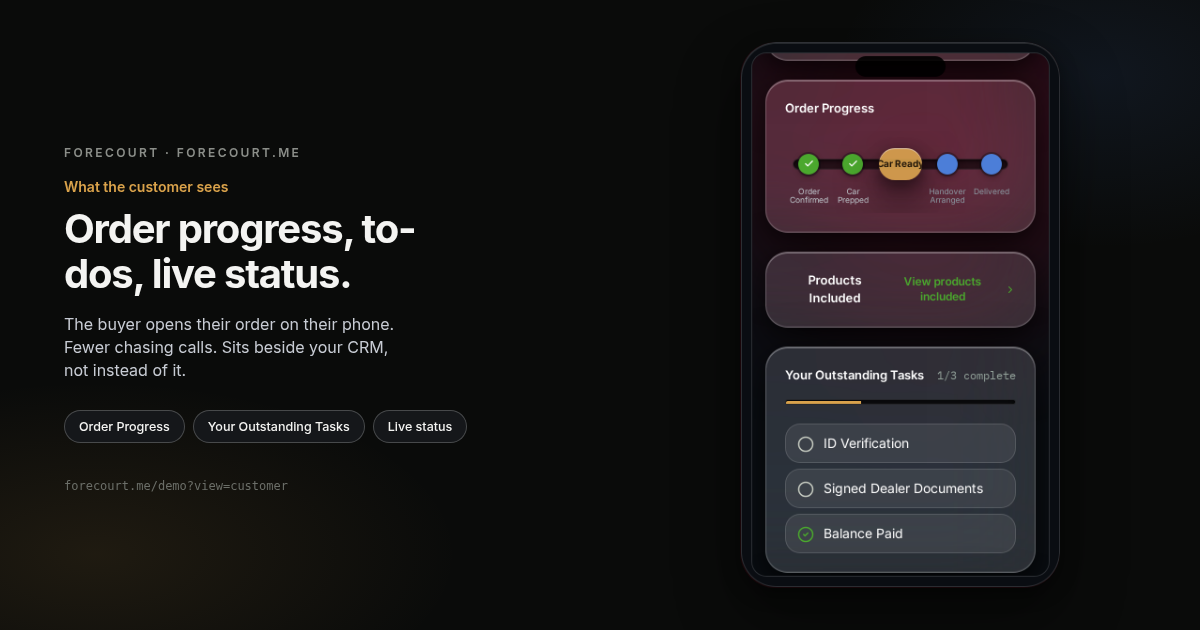
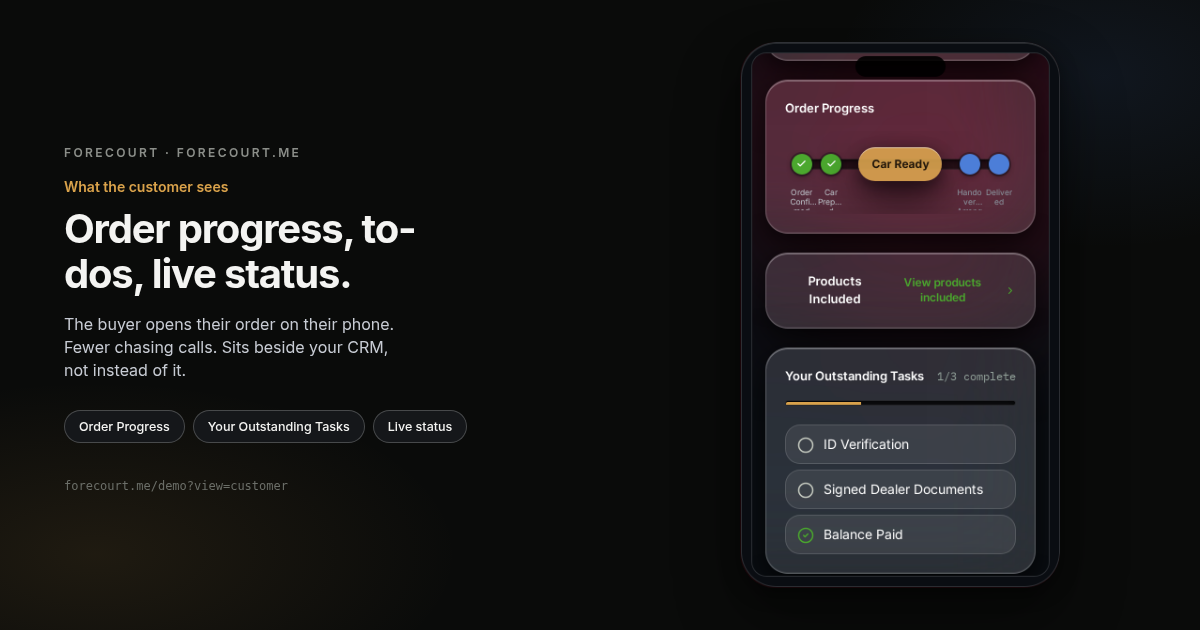
Fix Car Ready now-pill text crush on customer glass.
Portal sizes the current rail column to the amber pill. We had max-width
on is-current plus width:100% rail-mark and overflow:hidden on now-pill,
so Car Ready was forced into a too-narrow capsule. Size the pill to its
text (max-content), give the current node min-width, drop the clip, and
re-export the 1200x630 social PNG.

diff --git a/src/styles.css b/src/styles.css
@@ -534,10 +534,11 @@
 }
 .progress-node.is-current,
 .locator-node.is-current {
-  flex: 1.35 1 0;
-  min-width: 0;
-  max-width: 38%;
-  padding: 0 2px;
+  /* Portal: current column sizes to the now-pill, not the other way round. */
+  flex: 0 0 auto;
+  min-width: 7.5rem;
+  max-width: none;
+  padding: 0 4px;
 }
 .stage-disc {
   width: 26px;
@@ -558,40 +559,44 @@
 }
 .now-pill {
   height: 42px;
-  max-width: 100%;
-  padding: 0 10px;
+  width: max-content;
+  max-width: none;
+  padding: 0 14px;
   border-radius: 999px;
   background: color-mix(in srgb, #D9A24B 88%, rgba(255, 255, 255, 0.18));
   color: #20160A;
-  font-size: 11px;
+  font-size: 12px;
   font-weight: 700;
   line-height: 1.15;
+  letter-spacing: 0;
   white-space: nowrap;
-  overflow: hidden;
-  text-overflow: ellipsis;
+  overflow: visible;
   display: inline-flex;
   align-items: center;
   justify-content: center;
-  gap: 5px;
+  gap: 6px;
+  flex-shrink: 0;
+  transform: none;
   box-shadow: var(--shell-float-shadow);
   z-index: 2;
   animation: pill-pulse 2.8s ease-in-out infinite;
 }
 .arrived-pill {
   height: 34px;
-  max-width: 100%;
-  padding: 0 10px;
+  width: max-content;
+  max-width: none;
+  padding: 0 12px;
   border-radius: 999px;
   background: color-mix(in srgb, #4BA82E 72%, #0b0f14);
   color: #f3fff0;
   font-size: 10.5px;
   font-weight: 700;
   white-space: nowrap;
-  overflow: hidden;
-  text-overflow: ellipsis;
+  overflow: visible;
   display: inline-flex;
   align-items: center;
   gap: 5px;
+  flex-shrink: 0;
 }
 .rail-mark {
   height: 42px;
@@ -599,7 +604,9 @@
   align-items: center;
   justify-content: center;
   flex-shrink: 0;
-  width: 100%;
+  /* Width follows the disc/pill; width:100% was crushing now-pill text. */
+  width: auto;
+  min-width: 0;
 }
 .rail-label {
   margin-top: 4px;
@@ -798,20 +805,32 @@
 }
 .customer-phone-scroll .rail-scroll {
   overflow-x: hidden !important; /* phone-only: no x-scroll; showcase ≤5 stages must fit */
+  overflow-y: visible;
   scrollbar-width: none;
+}
+.customer-phone-scroll .progress-nodes,
+.customer-phone-scroll .locator-nodes {
+  overflow: visible;
 }
 .customer-phone-scroll .rail-scroll::-webkit-scrollbar {
   display: none;
 }
 .customer-phone-scroll .now-pill,
 .customer-phone-scroll .arrived-pill {
-  font-size: 10px;
-  padding: 0 7px;
-  height: 34px;
-  max-width: 100%;
+  /* Portal-faithful proportions at handset size: roomy pad, no condensed tracking. */
+  font-size: 12px;
+  font-weight: 700;
+  letter-spacing: 0;
+  padding: 0 14px;
+  height: 36px;
+  width: max-content;
+  max-width: none;
+  overflow: visible;
+  transform: none;
 }
 .customer-phone-scroll .rail-mark {
   height: 42px;
+  overflow: visible;
 }
 .customer-phone-scroll .stage-disc {
   width: 22px;
@@ -825,8 +844,10 @@
 }
 .customer-phone-scroll .progress-node.is-current,
 .customer-phone-scroll .locator-node.is-current {
-  flex: 1.1 1 0;
-  max-width: 30%;
+  flex: 0 0 auto;
+  min-width: 7.25rem;
+  max-width: none;
+  padding: 0 4px;
 }
 .customer-phone-scroll .progress-rail,
 .customer-phone-scroll .locator-rail {
